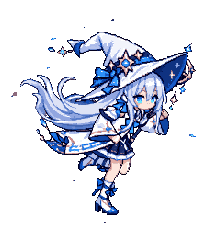
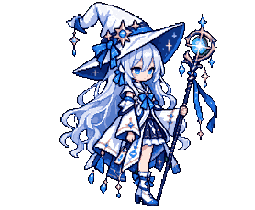
feat: 普通形态冲刺换成九帧
替换原来的 8 帧。缩放跟现有待机同一档。帧率去掉 32 的上限，和卡牌形态一样按 0.25 秒铺开，播完停在末帧。

diff --git a/Tools/build_clip.py b/Tools/build_clip.py
@@ -502,6 +502,50 @@ def write_original_idle(gif_path):
     return sheets, centers
 
 
+def write_original_dash(gif_path):
+    """只换初始形态冲刺。缩放跟现有 8 帧待机同一档，法杖和拖影不把人缩小。"""
+    source = Path(gif_path)
+    frames = composite_gif(source)
+    idle_info_path = ROOT / "Assets" / "Resources" / "Art" / "Witch" / "Anim" / "idle.json"
+    if idle_info_path.exists():
+        scale = float(json.loads(idle_info_path.read_text(encoding="utf-8"))["scale"])
+    else:
+        scale = 205 / 223
+    sheets, pivot_x, pivot_y, below, centers = place_clip(frames, scale)
+    out_dir = ROOT / "Assets" / "Resources" / "Art" / "Witch" / "Anim"
+    for index, sheet in enumerate(sheets):
+        png_path = out_dir / f"dash_{index}.png"
+        Image.fromarray(sheet, "RGBA").save(png_path)
+        write_sprite_meta(png_path, pivot_x, pivot_y)
+    for stale in out_dir.glob("dash_*.png"):
+        number = stale.stem.split("_")[-1]
+        if number.isdigit() and int(number) >= len(sheets):
+            stale.unlink()
+            meta = Path(str(stale) + ".meta")
+            if meta.exists():
+                meta.unlink()
+    info = {
+        "clip": "dash",
+        "canvas": [int(sheets[0].shape[1]), int(sheets[0].shape[0])],
+        "feetY": int(sheets[0].shape[0] - below),
+        "frames": len(sheets),
+        "pivot": [round(pivot_x, 6), round(pivot_y, 6)],
+        "source": "original_dash.gif",
+        "sourceFrames": len(frames),
+        "scale": round(scale, 6),
+    }
+    (out_dir / "dash.json").write_text(json.dumps(info, ensure_ascii=False, indent=1) + "\n", encoding="utf-8")
+    saved_dir = ORIGINAL_DIR
+    saved_dir.mkdir(parents=True, exist_ok=True)
+    saved = saved_dir / "original_dash.gif"
+    saved.write_bytes(source.read_bytes())
+    span = max(centers) - min(centers)
+    print(
+        f"original dash: {len(sheets)} frames canvas {info['canvas'][0]}x{info['canvas'][1]} "
+        f"pivot {info['pivot']} below {below} scale {scale:.4f} cx span {span:.2f} bytes {source.stat().st_size}"
+    )
+
+
 def write_fool_attacks(attack1_path, attack2_path, attack3_path):
     """愚者地面普攻三段各一套。缩放跟现有愚者待机同一档，不被刀光撑大。"""
     specs = (
@@ -765,6 +809,7 @@ def main():
         and "--fool-dash" not in args
         and "--chariot-dash" not in args
         and "--strength-dash" not in args
+        and "--original-dash" not in args
     ):
         write_forms()
     if "--original-idle" in args:
@@ -774,6 +819,16 @@ def main():
         if not gif.exists():
             raise SystemExit("找不到初始形态的新待机 GIF")
         write_original_idle(gif)
+    if "--original-dash" in args:
+        import zipfile
+        uploads = Path("/home/ubuntu/.cursor/projects/workspace/uploads")
+        archive = uploads / "original-dash_5d72.zip"
+        extracted = uploads / "original-dash.gif"
+        if not extracted.exists():
+            with zipfile.ZipFile(archive) as bundle:
+                extracted.write_bytes(bundle.read("original-dash.gif"))
+        write_original_dash(extracted)
+        return
     if "--strength-dash" in args:
         import zipfile
         uploads = Path("/home/ubuntu/.cursor/projects/workspace/uploads")

diff --git a/Assets/Scripts/WitchFrames.cs b/Assets/Scripts/WitchFrames.cs
@@ -289,12 +289,10 @@ public class WitchFrames : MonoBehaviour
             return WallSlideFps;
         else if (clip == "walljump")
             return WallJumpFps;
-        else if (clip == "dash" && player != null)
-            return Mathf.Clamp(frameCount / Mathf.Max(0.12f, player.dashDuration), 12f, 32f);
-        else if (clip.EndsWith("_dash") && player != null)
+        else if ((clip == "dash" || clip.EndsWith("_dash")) && player != null)
         {
-            // 场景里冲刺是 0.25 秒。9 帧若卡在原版 32fps 上限，第 9 帧要到 0.25 秒才出现，结束时刚好被掐掉。
-            // 末帧放在时长的 90%：0.25 秒时大约 35.6fps，第 9 帧在 0.225 秒出现，末尾只停大约 0.025 秒。
+            // 场景里冲刺是 0.25 秒。原版以前卡在 32fps，8 帧刚好铺满；换成 9 帧后第 9 帧会卡在结束线上。
+            // 现在和卡牌形态一样：末帧放在时长的 90%，0.25 秒时大约 35.6fps，第 9 帧在 0.225 秒出现。
             float duration = Mathf.Max(0.12f, player.dashDuration);
             return (frameCount - 1) / (duration * 0.9f);
         }
@@ -440,7 +438,7 @@ public class WitchFrames : MonoBehaviour
                 || currentClip == "walljump"
                 || currentClip.EndsWith("_jump") || currentClip.EndsWith("_fall")
                 || currentClip.StartsWith("attack") || currentClip.Contains("_attack")
-                || currentClip.EndsWith("_dash");
+                || currentClip == "dash" || currentClip.EndsWith("_dash");
             int index;
             int airHold = AirHoldIndex(currentClip);
             if (airHold >= 0)
